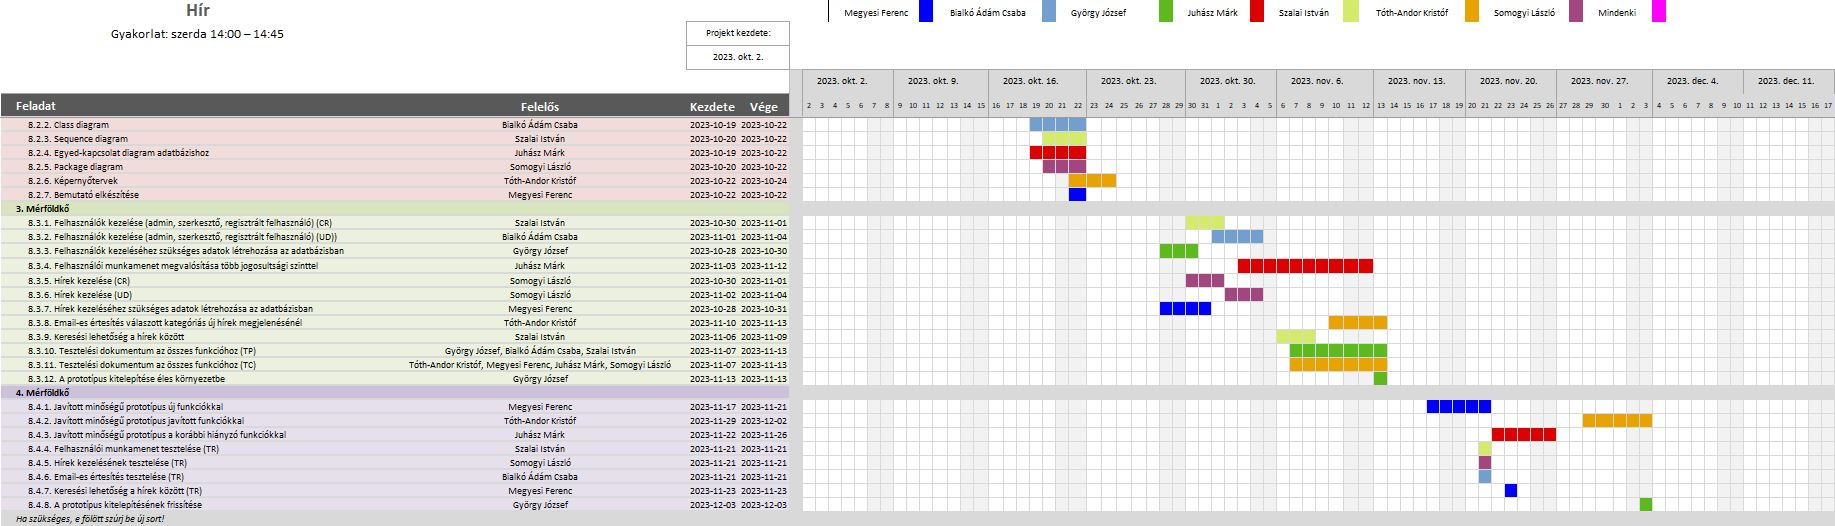
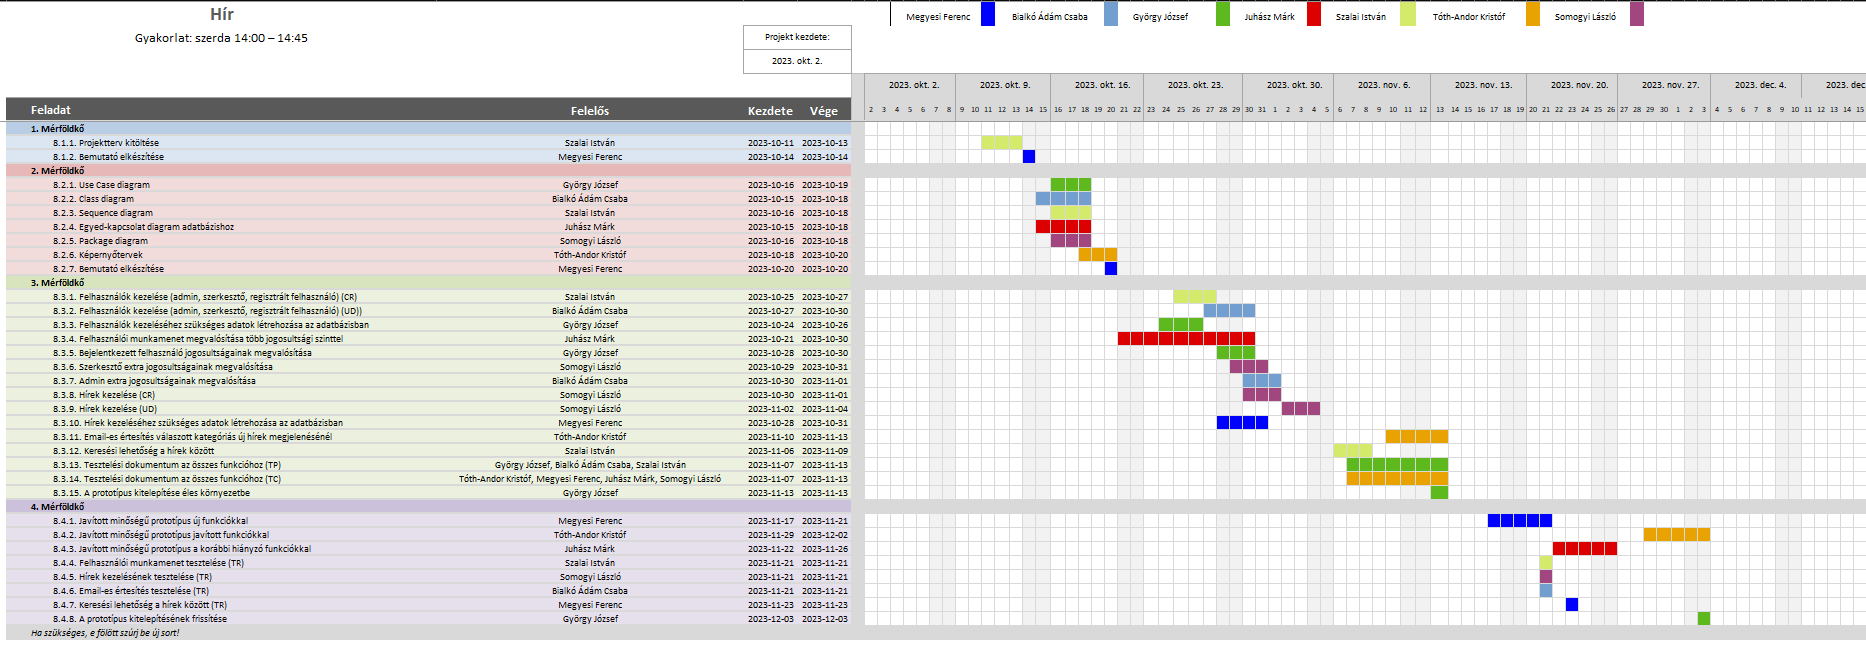
gantt-diagram frissites

diff --git a/docs/M1/Projektterv-2023.md b/docs/M1/Projektterv-2023.md
@@ -320,7 +320,7 @@ Tartam:  `3 nap`
 
 Erőforrásigény:  `1 személynap`
 
-#### `8.3.. Hírek kezelése (CR)`
+#### `8.3.8. Hírek kezelése (CR)`
 
 Felelős: `Somogyi László`
 
@@ -328,7 +328,7 @@ Tartam:  `3 nap`
 
 Erőforrásigény:  `1 személynap`
 
-#### `8.3.6. Hírek kezelése (UD)`
+#### `8.3.9. Hírek kezelése (UD)`
 
 Felelős: `Somogyi László`
 
@@ -336,7 +336,7 @@ Tartam:  `3 nap`
 
 Erőforrásigény:  `1 személynap`
 
-#### `8.3.7. Hírek kezeléséhez szükséges adatok létrehozása az adatbázisban`
+#### `8.3.10. Hírek kezeléséhez szükséges adatok létrehozása az adatbázisban`
 
 Felelős: `Megyesi Ferenc`
 
@@ -344,7 +344,7 @@ Tartam:  `4 nap`
 
 Erőforrásigény:  `1 személynap`
 
-#### `8.3.8. Email-es értesítés válaszott kategóriás új hírek megjelenésénél`
+#### `8.3.11. Email-es értesítés válaszott kategóriás új hírek megjelenésénél`
 
 Felelős: `Tóth-Andor Kristóf`
 
@@ -352,7 +352,7 @@ Tartam:  `4 nap`
 
 Erőforrásigény:  `2 személynap`
 
-#### `8.3.9. Keresési lehetőség a hírek között`
+#### `8.3.12. Keresési lehetőség a hírek között`
 
 Felelős: `Szalai István`
 
@@ -360,7 +360,7 @@ Tartam:  `3 nap`
 
 Erőforrásigény:  `0.5 személynap`
 
-#### 8.3.10. Tesztelési dokumentum az összes funkcióhoz (TP)
+#### 8.3.13. Tesztelési dokumentum az összes funkcióhoz (TP)
 
 Felelős: `György József, Bialkó Ádám Csaba, Szalai István`
 
@@ -368,7 +368,7 @@ Tartam:  `7 nap`
 
 Erőforrásigény:  `1 személynap/fő`
 
-#### 8.3.11. Tesztelési dokumentum az összes funkcióhoz (TC)
+#### 8.3.14. Tesztelési dokumentum az összes funkcióhoz (TC)
 
 Felelős: `Tóth-Andor Kristóf, Megyesi Ferenc, Juhász Márk, Somogyi László`
 
@@ -376,7 +376,7 @@ Tartam:  `7 nap`
 
 Erőforrásigény:  `1 személynap/fő`
 
-#### `8.3.12. A prototípus kitelepítése éles környezetbe` 
+#### `8.3.15. A prototípus kitelepítése éles környezetbe` 
 
 Felelős: `György József`
 
